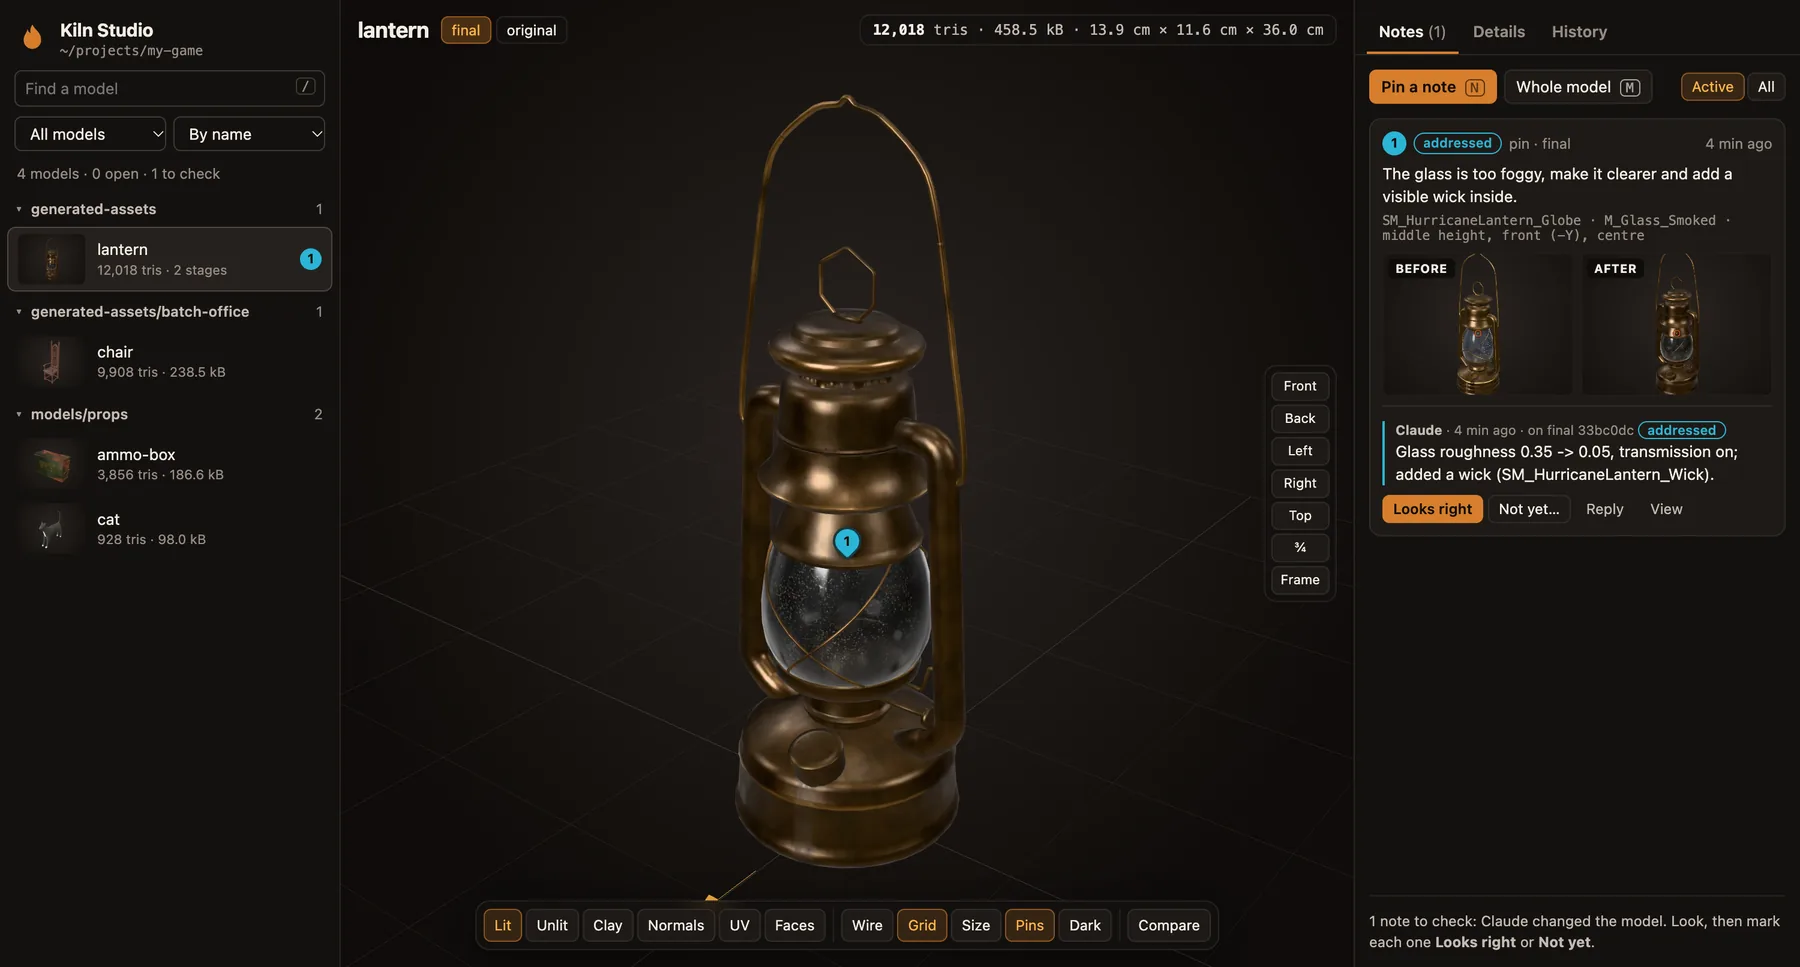
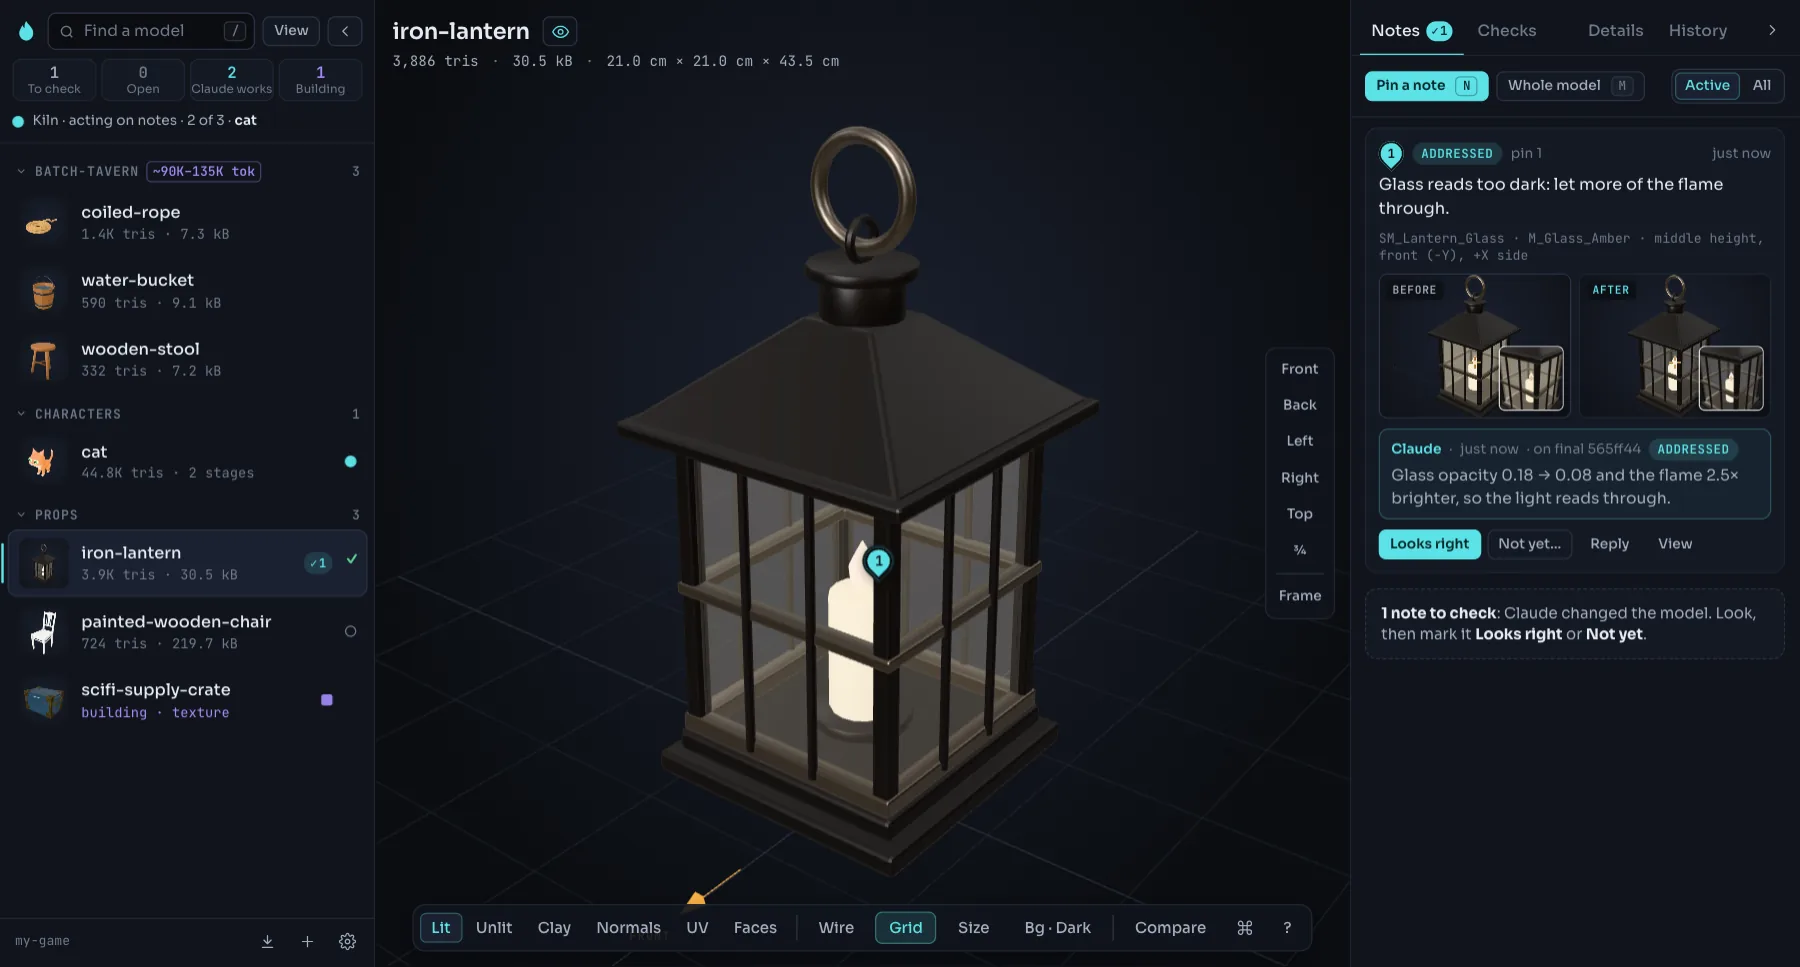
Kiln Studio: the README's picture is the new page; the list names its project
docs/images/studio.webp shows the v1 page in the same scene as before: the
iron lantern, a note pinned on its glass, addressed by Claude with the before
and after views and the reply, the list on the left with a run under way.
The "after" is a real change, not the same file twice: the glass alpha went
from 0.18 to 0.08 and the flame's emissive strength ×2.5, rewritten in the
GLB's JSON before the reply. Captured in headless Chrome at 1440 × 774 ×
1.25, so 1800 × 967 as the old one; WebP q82, 66 kB (the old one, 70 kB).

The list's footer now shows the project folder's name, the whole path on
hover: a long path cut at its end showed only "/private/tmp/…".

diff --git a/plugin/studio/static/app.js b/plugin/studio/static/app.js
@@ -237,7 +237,8 @@ async function fetchAssets() {
   state.batches = data.batches || {};
   state.work = data.work || null;
   if (!Object.keys(seen).length) seen = store.get(`kiln-studio:seen:${data.root}`, {});
-  $('#project').textContent = data.root;
+  // The folder's name, the whole path on hover: the end of a long path is what tells projects apart.
+  $('#project').textContent = data.name;
   $('#project').title = data.root;
   $('#logo').title = `Kiln Studio · ${data.root}`;
   document.title = `${data.name} · Kiln Studio`;
